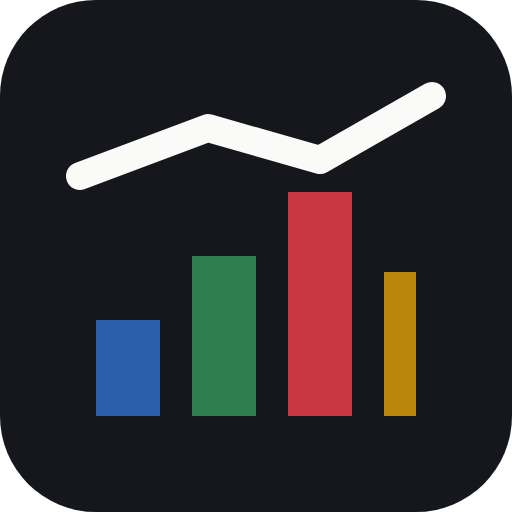
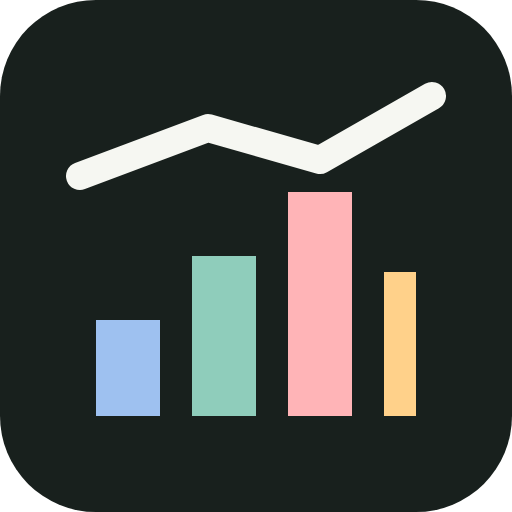
feat(design): the palette turns Peppy — light-scheme token retune
Every tm-* value moves to the Peppy palette from
design-system/peppy/MASTER.md, by the same rules as the 2026-08-17 AA
retune: hue families from the spec, lightness tuned only where a ratio
demands it (Attention #8A571B deepens to #855316 so the survival floor
keeps parity with the executed screen; #8A6407 -> #846005 clears the
grid). tests/a11y-tokens.test.ts recomputes all 81 pairings from these
hexes and passes; inline ratio comments restated from computed values.

Also re-tints the ink-derived literals that live outside the token
block: card/sheet shadows, viewport+manifest theme colour, and the PWA
icon (regenerated in the dark-scheme accents).

Claude-Session: https://claude.ai/code/session_01GdtbEksmkGDrXBG7T6sMdG

diff --git a/src/app/globals.css b/src/app/globals.css
@@ -130,79 +130,85 @@
 }
 /* ===== Timento (performance file) — design tokens =====
  *
- * Retuned for WCAG 2.2 AA. Hue families are unchanged; lightness is not.
- * Every ratio below is computed, not eyeballed: tests/a11y-tokens.test.ts reads
- * the hex values out of THIS FILE and recomputes the contrast of every pairing
- * the app actually renders. Darken a token past its pair and that test fails —
- * so keep the numbers in these comments honest when you move a value.
+ * Peppy palette (design-system/peppy/MASTER.md), retuned for WCAG 2.2 AA the
+ * same way the 2026-08-17 pass was: hue families come from the Peppy spec;
+ * lightness moves only where a ratio demands it (amber #8A571B → #855316 for
+ * survival parity, yellow #8A6407 → #846005 for the grid). Every ratio below
+ * is computed, not eyeballed: tests/a11y-tokens.test.ts reads the hex values
+ * out of THIS FILE and recomputes the contrast of every pairing the app
+ * actually renders. Darken a token past its pair and that test fails — so
+ * keep the numbers in these comments honest when you move a value.
  *
- * Light surfaces text sits on: paper #fafaf8 · panel #ffffff · soft #f3f3f0 ·
- * grid #eeefeb · amber-bg #fbf3e4 · green-faint #dfeae2 (the darkest, so it is
- * the binding constraint for every foreground below).
+ * Light surfaces text sits on: paper #f6f7f2 · panel #ffffff · soft #edefe9 ·
+ * grid #e9ece5 · amber-bg #faf1de · green-faint #e7f2ed (grid is now the
+ * darkest, so it is the binding constraint for every foreground below).
  */
 @theme inline {
-  --color-tm-paper: #fafaf8;
+  /* Peppy Page. */
+  --color-tm-paper: #f6f7f2;
+  /* Peppy Surface. */
   --color-tm-panel: #ffffff;
-  --color-tm-ink: #15171c;
-  --color-tm-ink2: #1e222a;
-  --color-tm-ink3: #232730;
-  --color-tm-inkrule: #2c313b;
-  /* was #70747b = 4.49:1 on paper — a fail, and the colour of most small text.
-     now 5.78:1 on paper, 6.04:1 on panel, 5.43:1 on soft, 5.23:1 on grid,
-     5.47:1 on amber-bg, 4.89:1 on green-faint. */
-  --color-tm-dim: #5f636a;
-  /* was #9ba0a8 = 2.63:1 on panel. dim2 is used as body text on light surfaces
-     (crew chips, mind pills) so it can no longer be a light grey; the light
-     grey that dark surfaces need is --color-tm-onink below.
-     now 5.68:1 on panel, 5.44:1 on paper, 5.11:1 on soft, 4.92:1 on grid,
-     5.15:1 on amber-bg, 4.60:1 on green-faint. */
-  --color-tm-dim2: #63676e;
-  /* Muted text ON the dark scoreboard/login header.
-     7.41:1 on ink, 6.59:1 on ink2, 6.18:1 on ink3. */
-  --color-tm-onink: #a2a7af;
-  --color-tm-rule: #e4e5e1;
+  /* Peppy Ink — 15.44:1 on paper, 16.62:1 on panel. Also the scoreboard fill. */
+  --color-tm-ink: #18201d;
+  /* Scoreboard interior layers, green-tinted to match the ink. */
+  --color-tm-ink2: #232b27;
+  --color-tm-ink3: #2b342f;
+  --color-tm-inkrule: #3a453f;
+  /* Peppy Muted ink — the colour of most small text.
+     6.61:1 on paper, 7.11:1 on panel, 6.14:1 on soft, 5.96:1 on grid,
+     6.34:1 on amber-bg, 6.21:1 on green-faint. */
+  --color-tm-dim: #4e5b55;
+  /* Body text on light chips/pills (crew chips, mind pills) — a half-step off
+     dim so the two muted voices stay distinguishable, as before.
+     6.60:1 on panel, 6.13:1 on paper, 5.70:1 on soft, 5.53:1 on grid,
+     5.88:1 on amber-bg, 5.76:1 on green-faint. */
+  --color-tm-dim2: #52605a;
+  /* Muted text ON the dark scoreboard/login header, green-grey now.
+     8.36:1 on ink, 7.30:1 on ink2, 6.46:1 on ink3. */
+  --color-tm-onink: #aebbb3;
+  /* Peppy Rule, decorative weight — card edges (1.4.11 does not cover these). */
+  --color-tm-rule: #c6d0c9;
   /* Boundary for interactive controls (inputs, chips) — 1.4.11 needs 3:1.
-     3.45:1 on panel, 3.31:1 on paper, 3.11:1 on soft. tm-rule (1.27:1 on panel)
-     stays for decorative card edges, which 1.4.11 does not cover. */
-  --color-tm-rule-strong: #888b85;
-  --color-tm-grid: #eeefeb;
-  --color-tm-soft: #f3f3f0;
-  /* unchanged — already passing: 6.31:1 on panel, 5.11:1 on green-faint,
-     and white on tm-blue is 6.31:1. */
+     4.27:1 on panel, 3.96:1 on paper, 3.68:1 on soft. */
+  --color-tm-rule-strong: #6f7e76;
+  --color-tm-grid: #e9ece5;
+  --color-tm-soft: #edefe9;
+  /* unchanged hue from the file era — still the measure accent:
+     6.31:1 on panel, 5.29:1 on grid, 5.51:1 on green-faint; white on it 6.31:1. */
   --color-tm-blue: #2b5fab;
-  /* was #c7373f (4.49:1 on grid, 4.20:1 on green-faint).
-     now 5.91:1 on panel, 5.11:1 on grid, 4.78:1 on green-faint; white on it 5.91:1. */
-  --color-tm-red: #b8323a;
-  /* was #2e7d4f: 4.38:1 on the green chip and 4.09:1 on green-faint — both fails,
-     and green-faint + text-tm-green is a real pairing in the stack tab.
-     now 5.99:1 on panel, 5.20:1 on green chip, 4.85:1 on green-faint;
-     white on tm-green (the ticked check) 5.99:1. */
-  --color-tm-green: #297047;
-  --color-tm-green-mid: #9cc4a9;
-  --color-tm-green-faint: #dfeae2;
+  /* Peppy Danger. 7.16:1 on panel, 6.00:1 on grid, 6.25:1 on green-faint;
+     white on it 7.16:1. */
+  --color-tm-red: #9f2f35;
+  /* Peppy Primary — executed progress, ticked checks, adherence.
+     7.59:1 on panel, 7.05:1 on paper, 6.62:1 on green-faint;
+     white on tm-green (the ticked check) 7.59:1. */
+  --color-tm-green: #275d50;
+  --color-tm-green-mid: #9cc7b4;
+  /* Peppy Support. */
+  --color-tm-green-faint: #e7f2ed;
   --color-tm-blue-faint: #e9eff8;
-  --color-tm-red-bg: #faeceb;
-  /* was #b8860b = 3.25:1 on panel. now 5.38:1 on panel, 4.65:1 on grid. */
-  --color-tm-yellow: #8a6407;
-  /* SURVIVAL MODE — the screen for someone's worst day was the least legible
-     one we shipped. White on #c77d1f was 3.29:1 and #c77d1f on amber-bg 2.98:1.
-     One value has to carry both, and both constraints are the same one
-     (luminance ≤ 0.16), so amber goes deep rather than splitting.
-     now: white on tm-amber 5.77:1, tm-amber on amber-bg 5.23:1,
-     on panel 5.77:1, on green-faint 4.67:1. */
-  --color-tm-amber: #8f5a15;
-  --color-tm-amber-bg: #fbf3e4;
-  /* unchanged — 6.09:1 on amber-bg, 6.72:1 on panel. */
+  --color-tm-red-bg: #f9ecea;
+  /* 5.74:1 on panel, 4.81:1 on grid. */
+  --color-tm-yellow: #846005;
+  /* SURVIVAL MODE — Peppy Attention #8A571B deepened one notch so the floor
+     screen keeps parity with the executed screen (the test holds
+     |white-on-amber − white-on-green| under 1.5):
+     white on tm-amber 6.47:1, tm-amber on amber-bg 5.76:1,
+     on panel 6.47:1, on green-faint 5.64:1. */
+  --color-tm-amber: #855316;
+  --color-tm-amber-bg: #faf1de;
+  /* unchanged — 5.98:1 on amber-bg, 6.72:1 on panel. */
   --color-tm-amber-ink: #6b5a2e;
-  /* Amber ON the dark header, where the deep amber above would vanish.
-     8.13:1 on ink, 7.22:1 on ink2, 6.78:1 on ink3; ink on it 8.13:1. */
-  --color-tm-amber-lift: #e0a34e;
-  /* was #8a5a9e (4.21:1 on green-faint). now 6.05:1 on panel, 4.90:1 on green-faint. */
+  /* Amber ON the dark header, where the deep amber above would vanish. Now the
+     Peppy dark-scheme Attention value, one value for both schemes.
+     11.67:1 on ink, 10.19:1 on ink2, 9.01:1 on ink3; ink on it 11.67:1. */
+  --color-tm-amber-lift: #ffd18a;
+  /* 6.05:1 on panel, 5.28:1 on green-faint. */
   --color-tm-purple: #7e5191;
-  /* Focus ring. Has to clear 3:1 against BOTH the light page and the dark
-     header, since the same ring is used on both: 3.52:1 on paper, 3.68:1 on
-     panel, 3.31:1 on soft, 4.88:1 on ink, 4.07:1 on ink3. */
-  --color-tm-focus: #3b82f6;
+  /* Focus ring, now Peppy green. Has to clear 3:1 against BOTH the light page
+     and the dark header, since the same ring is used on both: 3.69:1 on paper,
+     3.97:1 on panel, 3.43:1 on soft, 4.19:1 on ink, 3.24:1 on ink3. */
+  --color-tm-focus: #3e8e6c;
   --font-tm-disp: var(--font-tm-disp-var), "Archivo Black", sans-serif;
   --font-tm-mono: var(--font-tm-mono-var), "IBM Plex Mono", ui-monospace, monospace;
   --font-tm-sans: var(--font-tm-sans-var), "IBM Plex Sans", system-ui, sans-serif;
@@ -212,7 +218,7 @@
    the utilities, so a media query cannot re-point the token — it has to
    re-declare the utility. That is what the blocks at the bottom do. */
 :root {
-  --tm-focus: #3b82f6;
+  --tm-focus: #3e8e6c;
   --tm-type-floor: 11.5px;
 }
 
@@ -384,17 +390,17 @@ summary:focus-visible,
 @media (prefers-contrast: more) {
   .text-tm-dim,
   .text-tm-dim2 {
-    color: #3a3d43; /* 10.42:1 on paper */
+    color: #333d38; /* 10.46:1 on paper */
   }
   .text-tm-onink {
-    color: #d9dde3; /* 13.15:1 on ink */
+    color: #dce3df; /* 12.74:1 on ink */
   }
   .text-tm-amber-ink {
-    color: #4b3f20; /* 9.38:1 on amber-bg */
+    color: #4b3f20; /* 9.21:1 on amber-bg */
   }
   .border-tm-rule,
   .border-tm-grid {
-    border-color: #888b85; /* 3.45:1 on panel */
+    border-color: #6f7e76; /* 4.27:1 on panel */
   }
   :is(a[href], button, [role="tab"], [role="radio"]):focus-visible {
     outline-width: 4px;

diff --git a/src/app/_components/ui.tsx b/src/app/_components/ui.tsx
@@ -21,7 +21,7 @@ export function Card({
   return (
     <div
       className={cn(
-        "rounded-[10px] border p-4 shadow-[0_1px_2px_rgba(21,23,28,0.04)]",
+        "rounded-[10px] border p-4 shadow-[0_1px_2px_rgba(24,32,29,0.04)]",
         tone === "amber" ? "border-tm-amber bg-tm-amber-bg" : "border-tm-rule bg-tm-panel",
         className,
       )}
@@ -143,8 +143,8 @@ export function BigChoice({
             aria-pressed={o.selected ?? false}
             className={cn(
               "flex min-h-16 w-full cursor-pointer items-center justify-between gap-3 rounded-[10px] border px-4 py-3 text-left",
-              // white on tm-ink is 16.4:1; the unselected boundary is
-              // rule-strong (3.45:1 on panel), so both states carry a 3:1 edge.
+              // white on tm-ink is 16.62:1; the unselected boundary is
+              // rule-strong (4.27:1 on panel), so both states carry a 3:1 edge.
               o.selected
                 ? "border-tm-ink bg-tm-ink text-white"
                 : "border-tm-rule-strong bg-tm-panel text-tm-ink",
@@ -171,7 +171,7 @@ export function BigChoice({
 
 /**
  * Contrast on each pairing (see globals.css for the palette rationale):
- * green on green-faint 4.85:1 · blue on blue-faint 5.46:1 · amber on amber-bg 5.23:1.
+ * green on green-faint 6.62:1 · blue on blue-faint 5.46:1 · amber on amber-bg 5.76:1.
  */
 export function ModeBadge({ mode }: { mode: "cut" | "maintain" | "survival" }) {
   const styles = {
@@ -351,7 +351,7 @@ export function TmSheet({
         aria-modal="true"
         aria-label={label}
         aria-labelledby={title ? titleId : undefined}
-        className="relative z-10 mx-4 mb-4 w-full max-w-md rounded-[14px] border border-tm-rule bg-tm-panel p-4 shadow-[0_8px_32px_rgba(21,23,28,0.18)] sm:mb-0"
+        className="relative z-10 mx-4 mb-4 w-full max-w-md rounded-[14px] border border-tm-rule bg-tm-panel p-4 shadow-[0_8px_32px_rgba(24,32,29,0.18)] sm:mb-0"
       >
         <div className="mb-3 flex items-center justify-between gap-3">
           {title ? (

diff --git a/src/app/layout.tsx b/src/app/layout.tsx
@@ -34,7 +34,7 @@ export const metadata: Metadata = {
 export const viewport: Viewport = {
   width: "device-width",
   initialScale: 1,
-  themeColor: "#15171c",
+  themeColor: "#18201d",
 };
 
 export default function TimentoLayout({ children }: { children: React.ReactNode }) {
